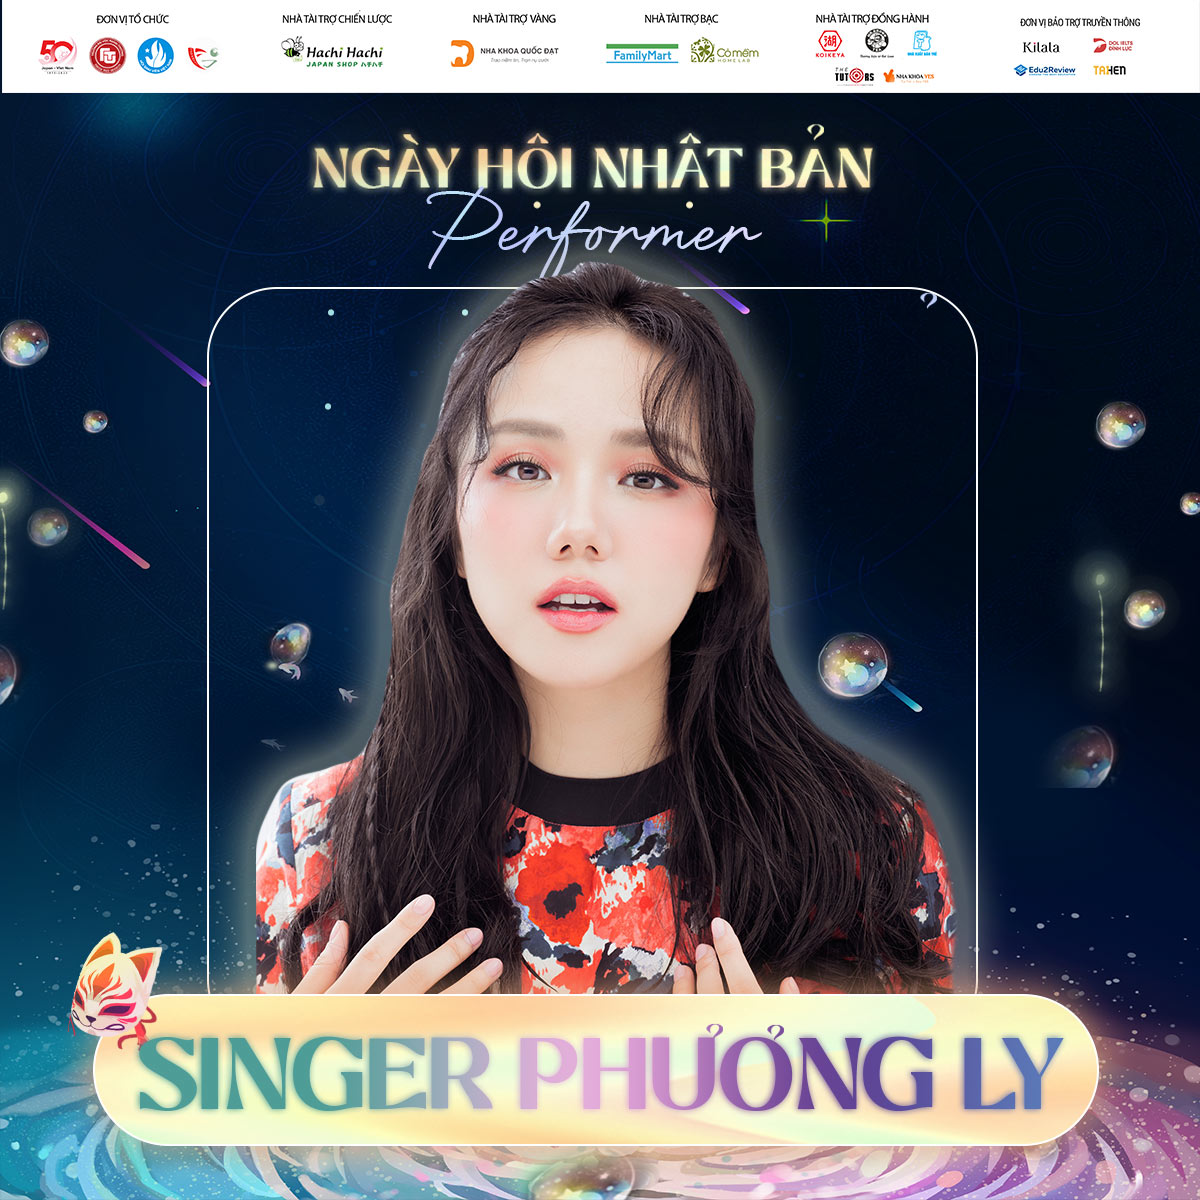
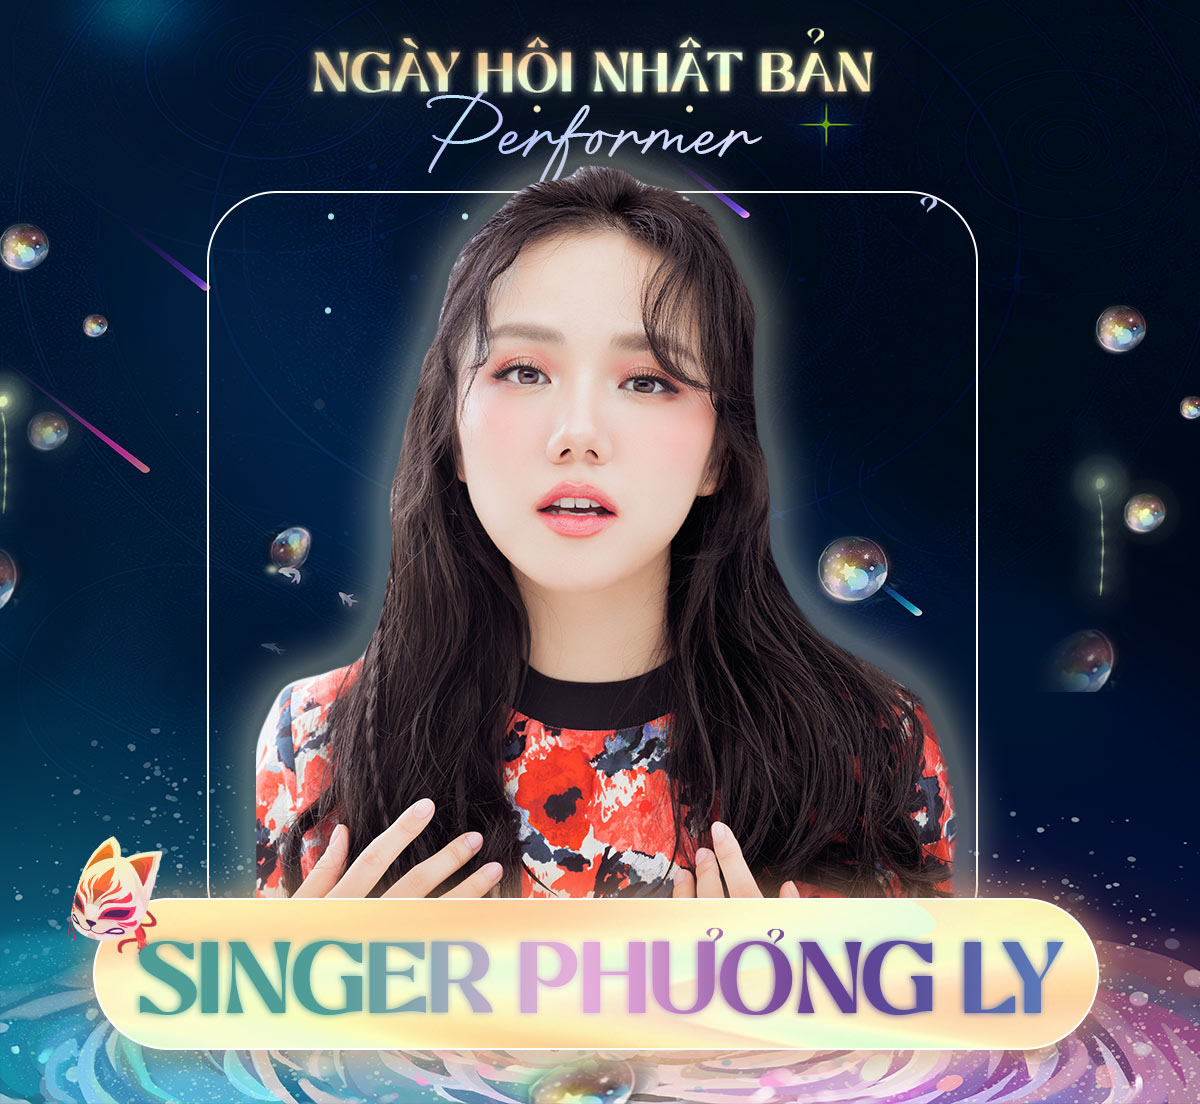
Edit Card attributes of Guest section

diff --git a/index.html b/index.html
@@ -36,25 +36,25 @@
           <ul class="navbar-nav me-auto mb-2 mb-lg-0 fw-bold fs-6">
             <div class="nav-hover-pl2"></div>
             <li class="nav-item mx-2">
-              <a class="nav-link active ff-merriweather" aria-current="page" href="#nhnb" id="hideonclick">Ngày hội Nhật Bản</a>
+              <a class="nav-link active ff-merriweather" aria-current="page" href="#nhnb">Ngày hội Nhật Bản</a>
             </li>
             <li class="nav-item mx-2">
-              <a class="nav-link active ff-merriweather" aria-current="page" href="#hikari" id="hideonclick">Tỏa</a>
+              <a class="nav-link active ff-merriweather" aria-current="page" href="#hikari">Tỏa</a>
             </li>
             <li class="nav-item mx-2">
-              <a class="nav-link active ff-merriweather" aria-current="page" href="#contest" id="hideonclick">Cuộc thi</a>
+              <a class="nav-link active ff-merriweather" aria-current="page" href="#contest">Cuộc thi</a>
             </li>
             <li class="nav-item mx-2">
-              <a class="nav-link active ff-merriweather" aria-current="page" href="#ambassador" id="hideonclick">Đại sứ</a>
+              <a class="nav-link active ff-merriweather" aria-current="page" href="#ambassador">Đại sứ</a>
             </li>
             <li class="nav-item mx-2">
-              <a class="nav-link active ff-merriweather" aria-current="page" href="#guest" id="hideonclick">Khách mời</a>
+              <a class="nav-link active ff-merriweather" aria-current="page" href="#guest">Khách mời</a>
             </li>
             <li class="nav-item mx-2">
-              <a class="nav-link active ff-merriweather" aria-current="page" href="#partner" id="hideonclick">Nhà tài trợ</a>
+              <a class="nav-link active ff-merriweather" aria-current="page" href="#partner">Nhà tài trợ</a>
             </li>
             <li class="nav-item mx-2">
-              <a class="nav-link active ff-merriweather" aria-current="page" href="#fjc" id="hideonclick">FJC</a>
+              <a class="nav-link active ff-merriweather" aria-current="page" href="#fjc">FJC</a>
             </li>
           </ul>
           <div class="col-sm-2 mx-4">
@@ -251,7 +251,7 @@
       <div class="col">
         <div class="row">
           <div class="col-md-6 mt-3">
-            <div class="card d-block w-100 ambassador-hover">    
+            <div class="card d-block w-100">    
               <a role="button" data-bs-toggle="modal" data-bs-target="#modalLena">
                 <img src="assets/img/ambassador/001.jpg" class="card-img-top" alt="Lena">
               </a>
@@ -264,7 +264,7 @@
             </div>
           </div>
           <div class="col-md-6 mt-3">
-            <div class="card d-block w-100 ambassador-hover">
+            <div class="card d-block w-100">
               <a role="button" data-bs-toggle="modal" data-bs-target="#modalKatGrey">
                 <img src="assets/img/ambassador/002.jpg" class="card-img-top" alt="Kat Grey">
               </a>
@@ -378,36 +378,21 @@
   <!--Ambassador End-->
 
   <!-- Guest Start -->
-  <section class="section" style="padding-top: 25px;" id="guest">
-    <h3 class="txt-glow ff-merriweather text-center mb-3">KHÁCH MỜI</h3>
-    <div class="container">
+  <section class="section" style="padding-top: 0;" id="guest">
+    <h3 class="txt-glow ff-merriweather text-center mb-4">KHÁCH MỜI</h3>
+    <div class="container-fluid">
       <div class="col">
         <div class="row text-center">
-          <div class="col m-3">
+          <div class="col-md-6">
             <!-- Singer: Phương Ly -->
             <div class="card w-100">
               <img src="assets/img/guest/001.jpg" class="card-img-top" alt="Phương Ly">
-              <div class="card-body">
-                
-              </div>
             </div>
           </div>
-          <div class="col m-3">
+          <div class="col-md-6">
             <!-- Rapper: Táo-->
             <div class="card w-100">
               <img src="assets/img/guest/002.jpg" class="card-img-top" alt="Táo">
-              <div class="card-body">
-
-              </div>
-            </div>
-          </div>
-          <div class="col m-3">
-            <!-- ??? -->
-            <div class="card w-100">
-              <img src="#" class="card-img-top" alt="???">
-              <div class="card-body">
-                
-              </div>
             </div>
           </div>
         </div>

diff --git a/style/style.css b/style/style.css
@@ -39,7 +39,7 @@ body { overflow-x: hidden; }
   --pallete-shadow-modal: rgba(250, 254, 208, 0.2);
 }
 /* Debug Section */
-
+/*
 .section { border: 1px solid #d64e12; }
 .footer { border: 1px solid #d64e12; }
 .container-fluid { border: 1px solid #f9a52c; }
@@ -107,8 +107,6 @@ nav a:hover{
 .img-cover { object-fit: cover; }
 /* 6.Ambassadors */
 .card { border: 3px solid var(--pallete-4) !important; }
-.ambassador-hover { position: relative; }
-.ambassador-hover:hover { box-shadow: 0px 0px 10px 10px var(--pallete-shadow-modal); }
 .card-body { background-color: var(--pallete-acrylic) !important; }
 .img-ambassador-modal {
   border-radius: 8px;
@@ -119,10 +117,6 @@ nav a:hover{
   -webkit-backdrop-filter: blur(3px) !important;
   backdrop-filter: blur(3px) !important;
   box-shadow: 0px 0px 10px 10px var(--pallete-shadow-modal);
-}
-.card-img-top {
-  height: 700px;
-  object-fit: cover;
 }
 .modal-ambassador-lg { width: 75% !important; }
 .modal-img-top {
